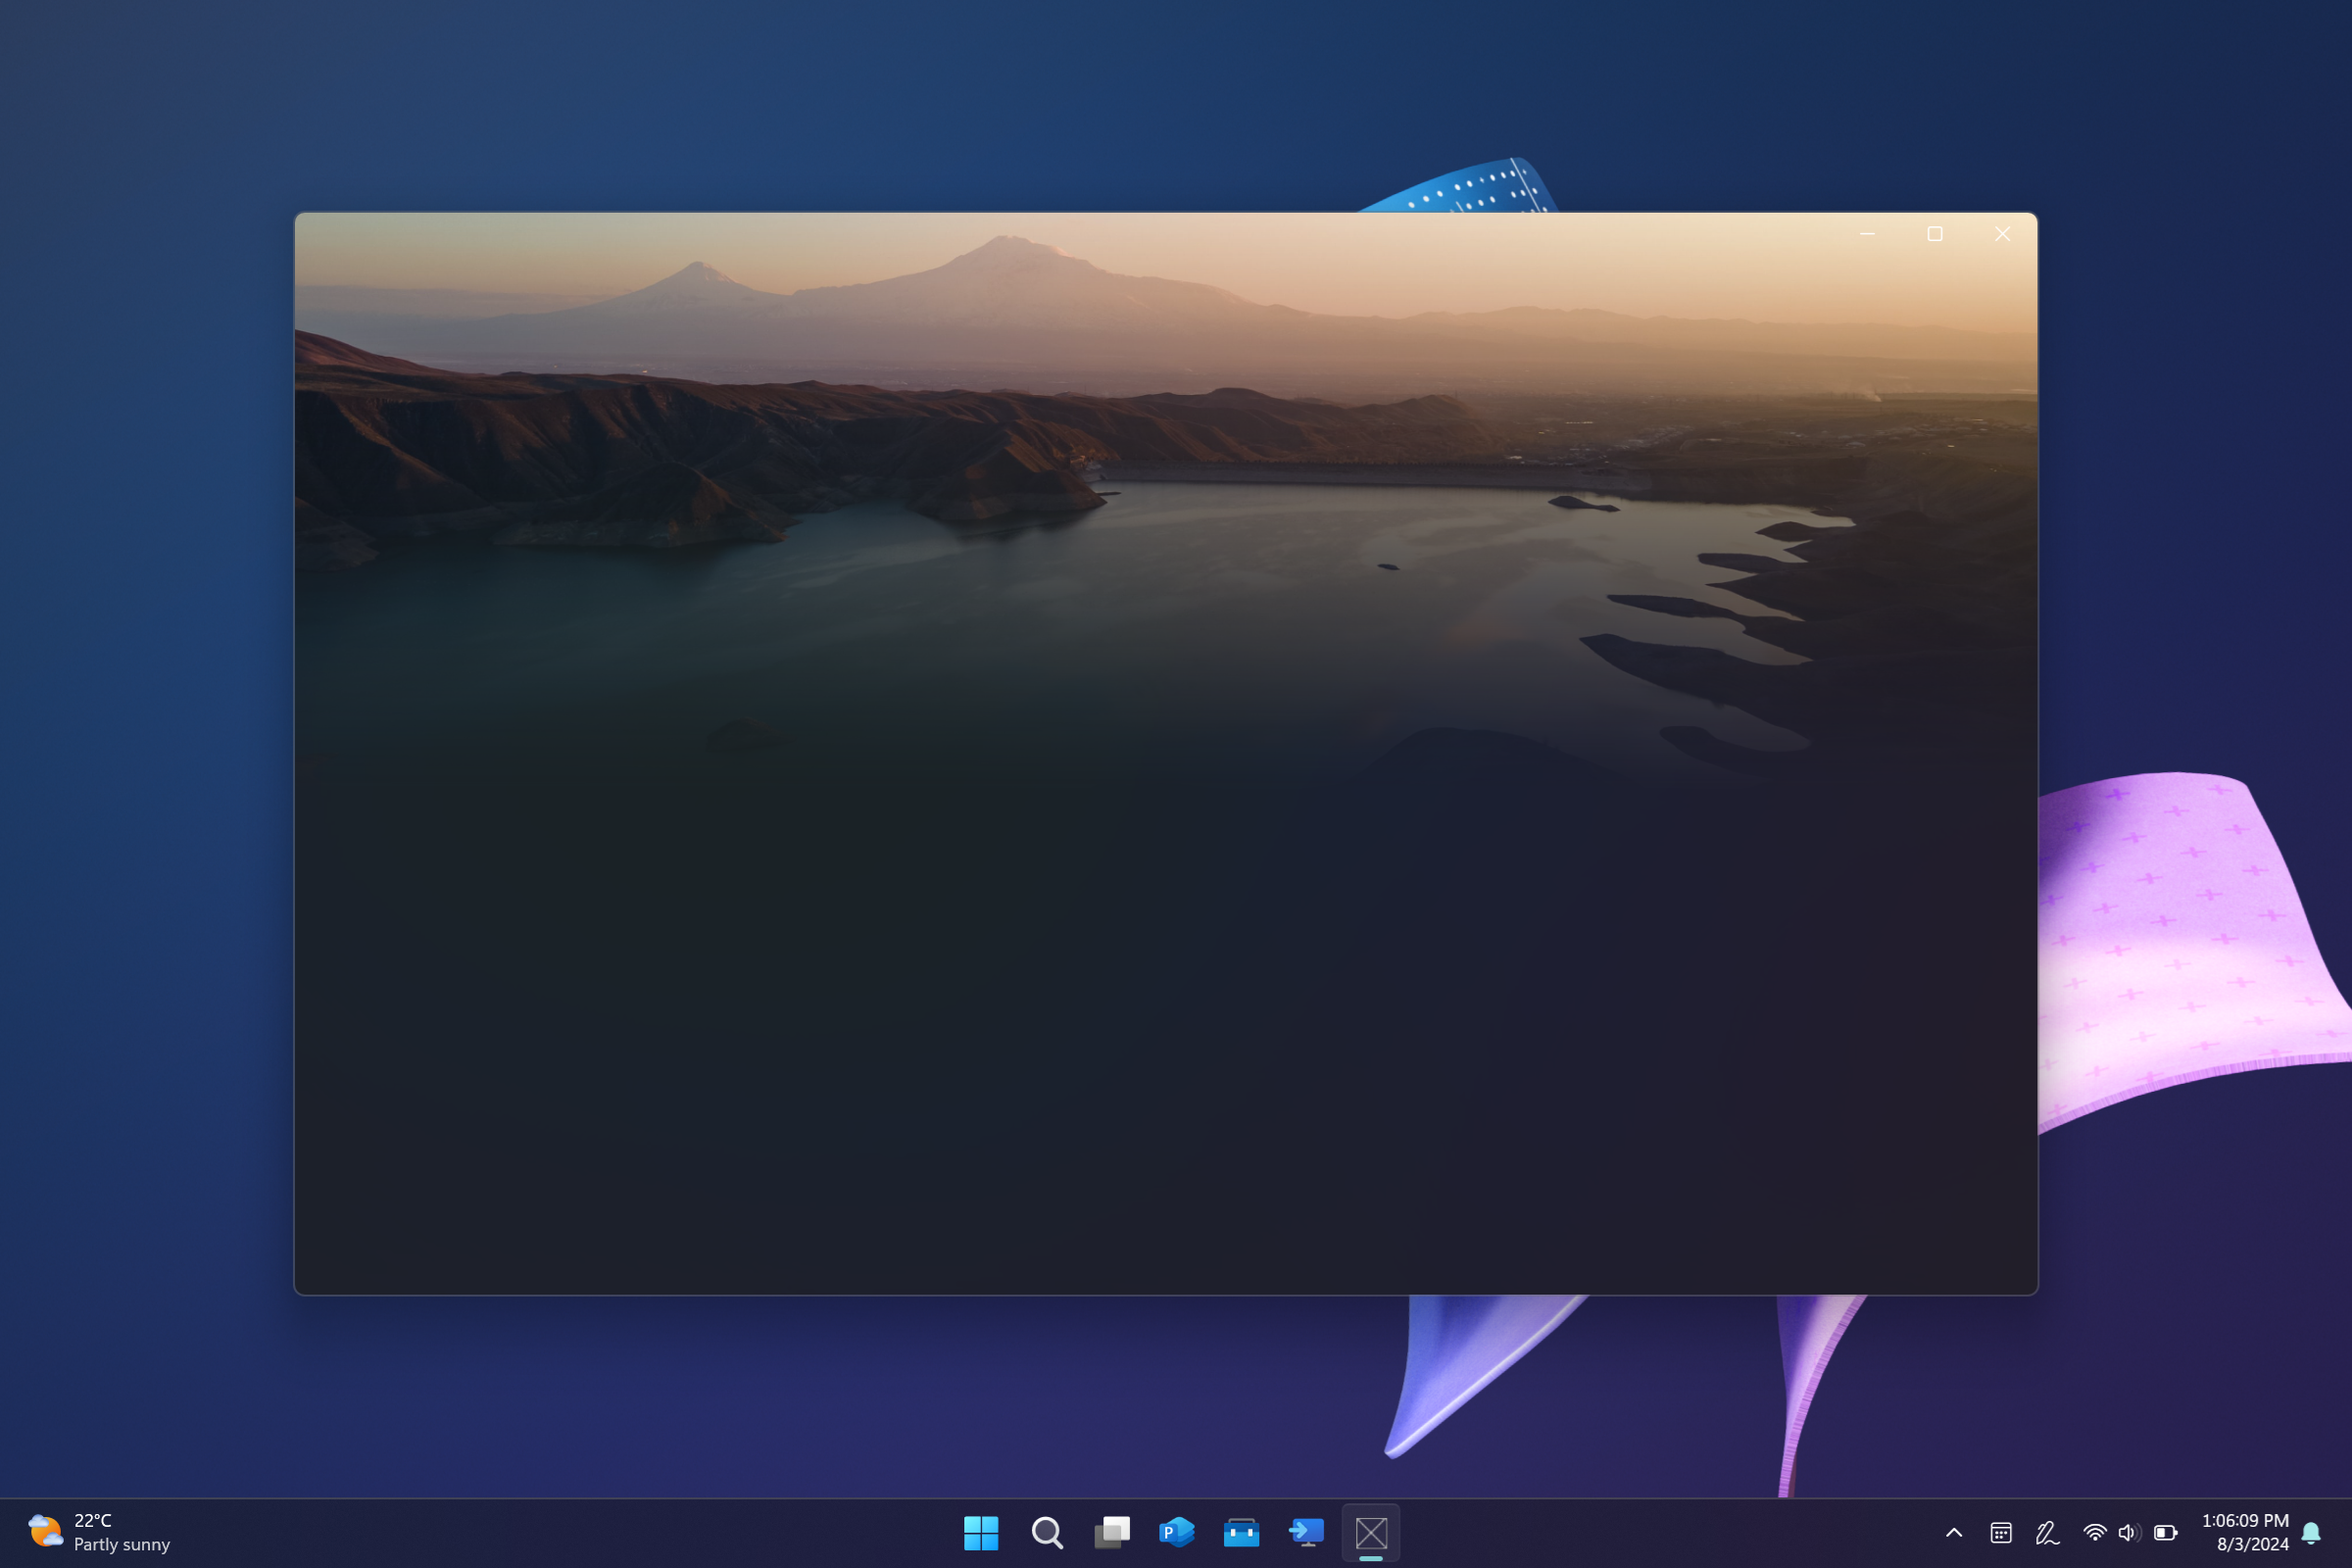
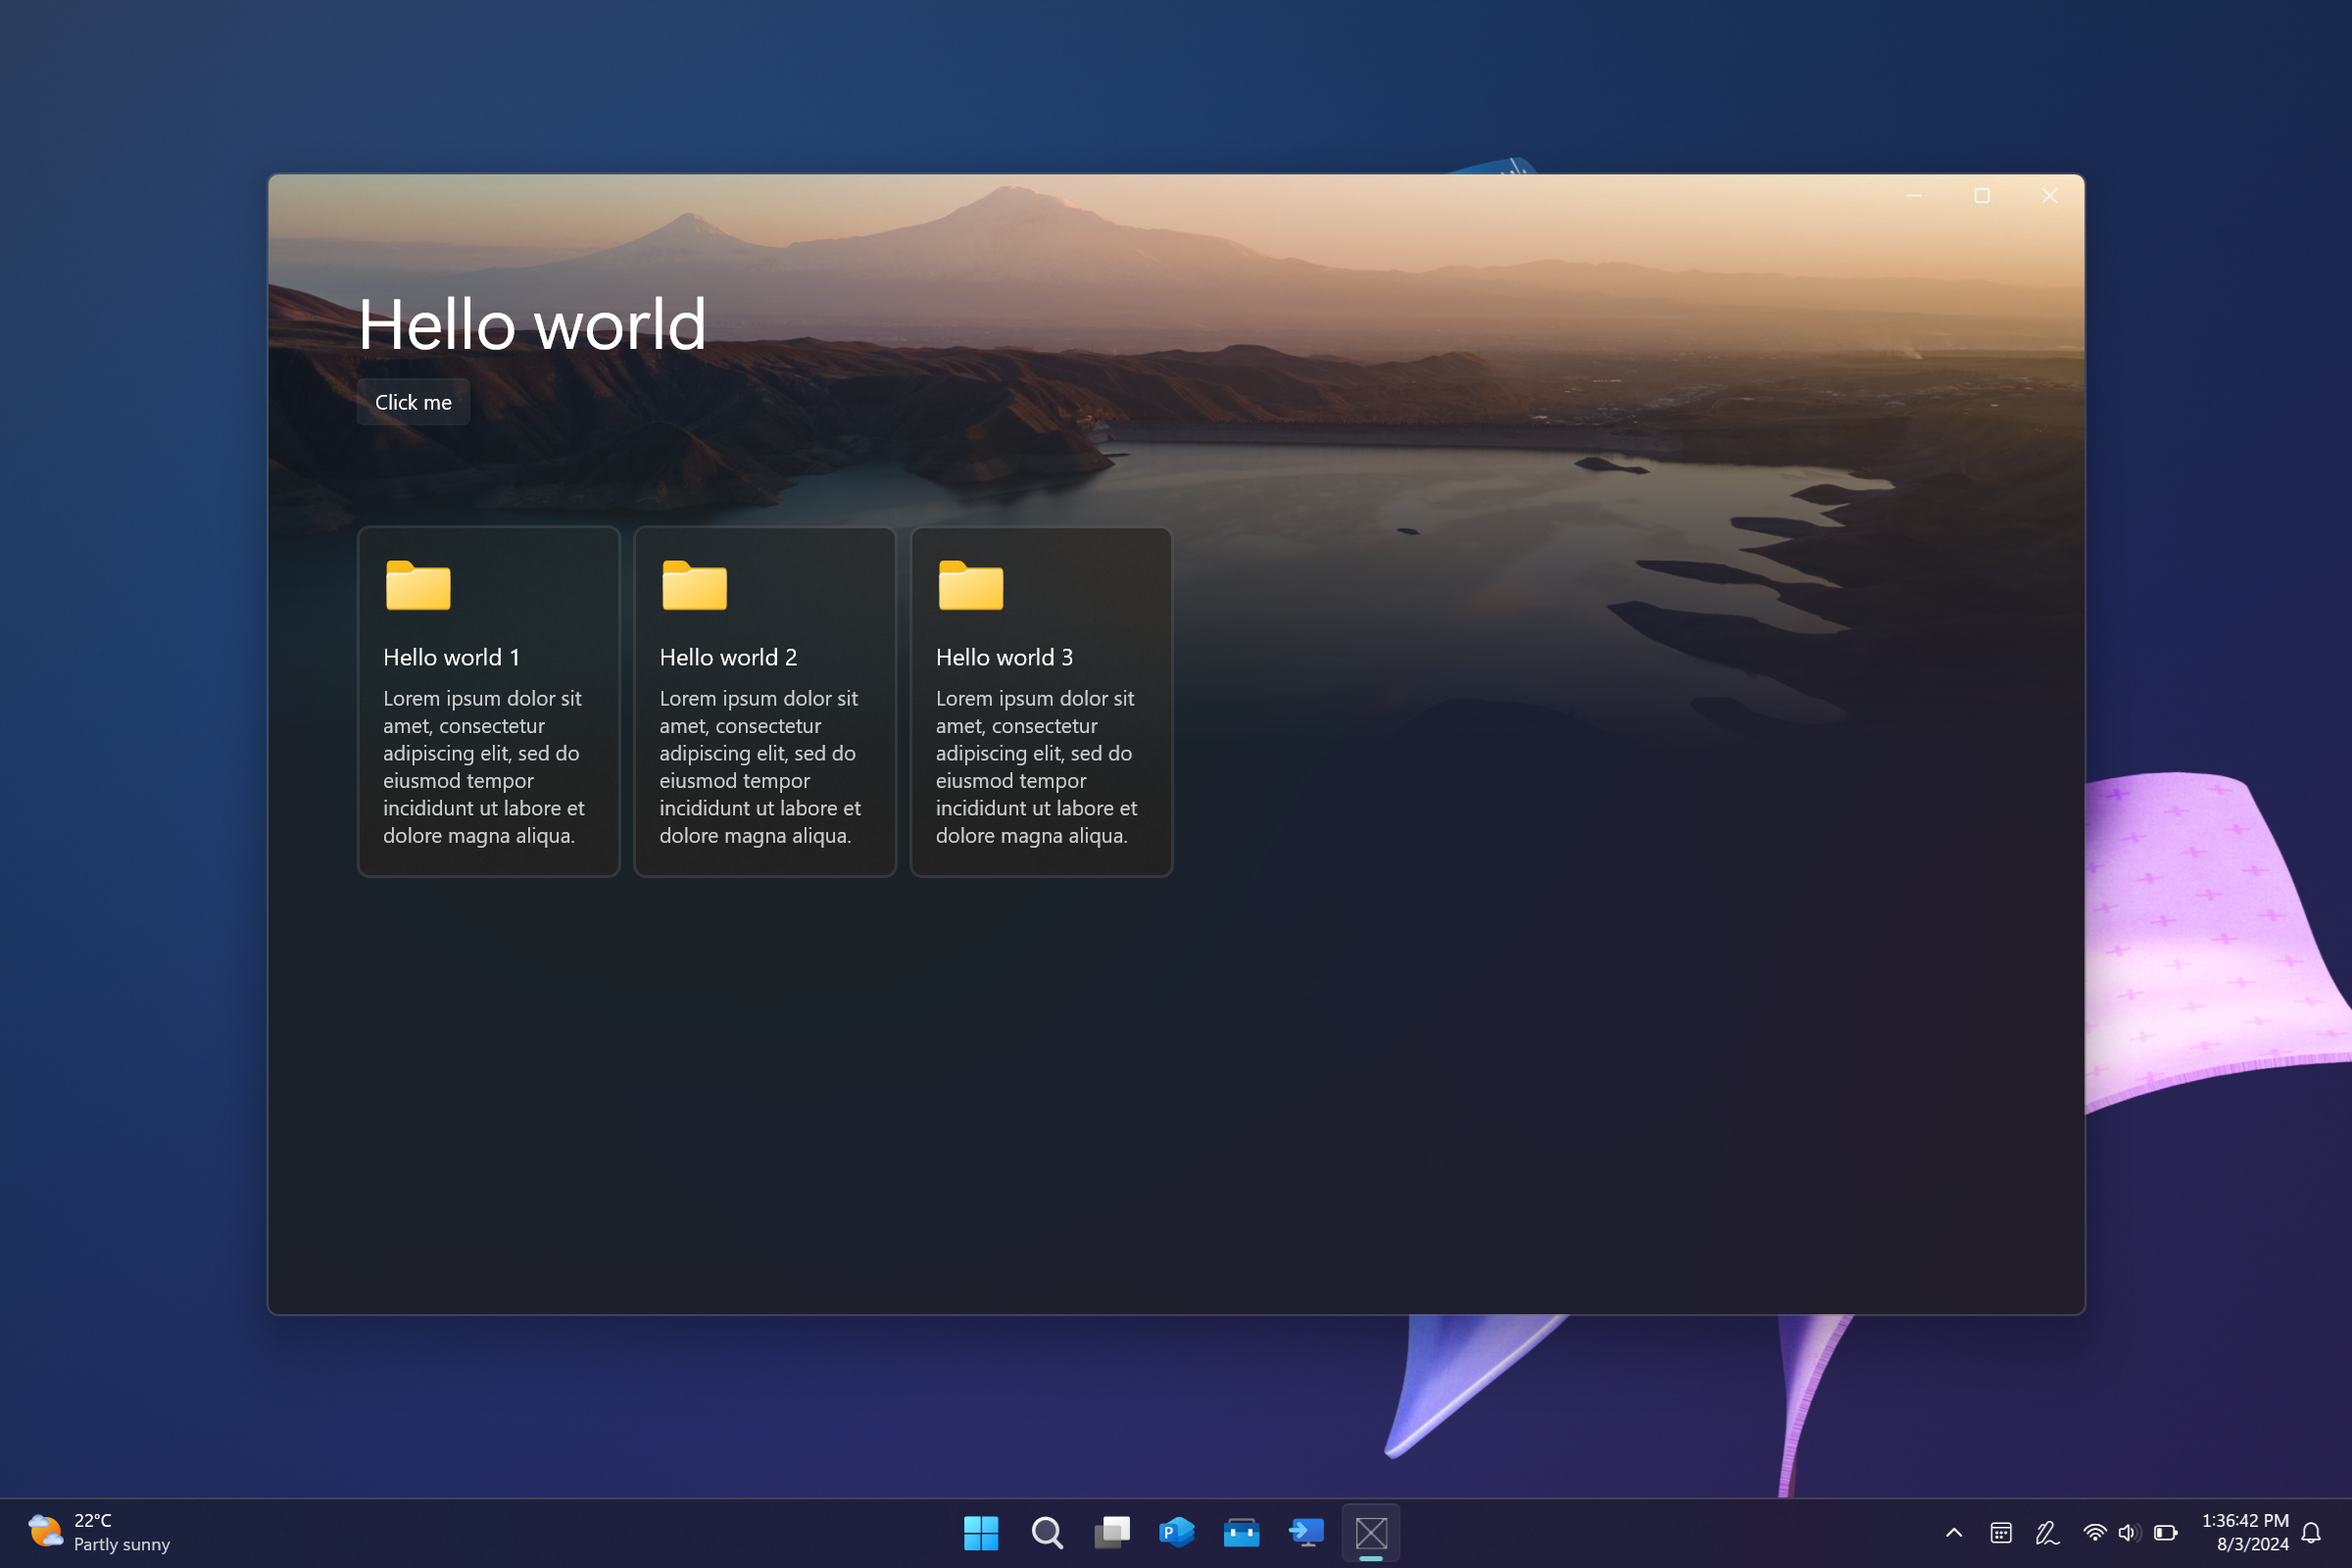
More controls

Changed region(s): [[0.0938, 0.0938, 0.9062, 0.8438]]

diff --git a/src/ImageWithMask/MainWindow.xaml b/src/ImageWithMask/MainWindow.xaml
@@ -13,11 +13,111 @@
   </Window.SystemBackdrop>
 
   <Grid>
-    <StackPanel
-      x:Name="MaskedImageStackPanel"
+    <Grid.Resources>
+      <StaticResource x:Key="TileAcrylicBrush" ResourceKey="SystemControlAcrylicElementBrush" />
+    </Grid.Resources>
+
+    <Grid
+      x:Name="MaskedImageGrid"
       Height="400"
       HorizontalAlignment="Stretch"
       VerticalAlignment="Top"
       SizeChanged="RefreshBackground" />
+
+    <Grid HorizontalAlignment="Stretch" VerticalAlignment="Top">
+      <Grid.RowDefinitions>
+        <RowDefinition Height="240" />
+        <RowDefinition Height="Auto" />
+      </Grid.RowDefinitions>
+
+      <StackPanel
+        Margin="60,0,0,0"
+        HorizontalAlignment="Left"
+        VerticalAlignment="Center">
+        <TextBlock
+          Margin="0,0,0,8"
+          FontFamily="Segoe UI Variable Display, Segoe UI"
+          FontSize="48"
+          Text="Hello world" />
+        <Button Content="Click me" />
+      </StackPanel>
+
+      <StackPanel
+        Grid.Row="1"
+        Margin="60,0"
+        Orientation="Horizontal">
+        <Grid
+          Width="180"
+          Height="240"
+          Margin="0,0,8,0"
+          Background="{ThemeResource TileAcrylicBrush}"
+          BorderBrush="#66575757"
+          BorderThickness="2"
+          CornerRadius="8">
+          <StackPanel Padding="16">
+            <Image
+              Width="48"
+              Margin="0,0,0,12"
+              HorizontalAlignment="Left"
+              Source="ms-appx:///Images/Folder.svg" />
+            <TextBlock
+              Margin="0,0,0,8"
+              FontSize="16"
+              Text="Hello world 1" />
+            <TextBlock
+              Foreground="{ThemeResource TextFillColorSecondaryBrush}"
+              Text="Lorem ipsum dolor sit amet, consectetur adipiscing elit, sed do eiusmod tempor incididunt ut labore et dolore magna aliqua."
+              TextWrapping="WrapWholeWords" />
+          </StackPanel>
+        </Grid>
+        <Grid
+          Width="180"
+          Height="240"
+          Margin="0,0,8,0"
+          Background="{ThemeResource TileAcrylicBrush}"
+          BorderBrush="#66575757"
+          BorderThickness="2"
+          CornerRadius="8">
+          <StackPanel Padding="16">
+            <Image
+              Width="48"
+              Margin="0,0,0,12"
+              HorizontalAlignment="Left"
+              Source="ms-appx:///Images/Folder.svg" />
+            <TextBlock
+              Margin="0,0,0,8"
+              FontSize="16"
+              Text="Hello world 2" />
+            <TextBlock
+              Foreground="{ThemeResource TextFillColorSecondaryBrush}"
+              Text="Lorem ipsum dolor sit amet, consectetur adipiscing elit, sed do eiusmod tempor incididunt ut labore et dolore magna aliqua."
+              TextWrapping="WrapWholeWords" />
+          </StackPanel>
+        </Grid>
+        <Grid
+          Width="180"
+          Height="240"
+          Background="{ThemeResource TileAcrylicBrush}"
+          BorderBrush="#66575757"
+          BorderThickness="2"
+          CornerRadius="8">
+          <StackPanel Padding="16">
+            <Image
+              Width="48"
+              Margin="0,0,0,12"
+              HorizontalAlignment="Left"
+              Source="ms-appx:///Images/Folder.svg" />
+            <TextBlock
+              Margin="0,0,0,8"
+              FontSize="16"
+              Text="Hello world 3" />
+            <TextBlock
+              Foreground="{ThemeResource TextFillColorSecondaryBrush}"
+              Text="Lorem ipsum dolor sit amet, consectetur adipiscing elit, sed do eiusmod tempor incididunt ut labore et dolore magna aliqua."
+              TextWrapping="WrapWholeWords" />
+          </StackPanel>
+        </Grid>
+      </StackPanel>
+    </Grid>
   </Grid>
 </Window>

diff --git a/src/ImageWithMask/App.xaml b/src/ImageWithMask/App.xaml
@@ -1,16 +1,14 @@
-<?xml version="1.0" encoding="utf-8"?>
+<?xml version="1.0" encoding="utf-8" ?>
 <Application
-    x:Class="ImageWithMask.App"
-    xmlns="http://schemas.microsoft.com/winfx/2006/xaml/presentation"
-    xmlns:x="http://schemas.microsoft.com/winfx/2006/xaml"
-    xmlns:local="using:ImageWithMask">
-    <Application.Resources>
-        <ResourceDictionary>
-            <ResourceDictionary.MergedDictionaries>
-                <XamlControlsResources xmlns="using:Microsoft.UI.Xaml.Controls" />
-                <!-- Other merged dictionaries here -->
-            </ResourceDictionary.MergedDictionaries>
-            <!-- Other app resources here -->
-        </ResourceDictionary>
-    </Application.Resources>
+  x:Class="ImageWithMask.App"
+  xmlns="http://schemas.microsoft.com/winfx/2006/xaml/presentation"
+  xmlns:x="http://schemas.microsoft.com/winfx/2006/xaml"
+  xmlns:local="using:ImageWithMask">
+  <Application.Resources>
+    <ResourceDictionary>
+      <ResourceDictionary.MergedDictionaries>
+        <XamlControlsResources xmlns="using:Microsoft.UI.Xaml.Controls" />
+      </ResourceDictionary.MergedDictionaries>
+    </ResourceDictionary>
+  </Application.Resources>
 </Application>

diff --git a/src/ImageWithMask/App.xaml.cs b/src/ImageWithMask/App.xaml.cs
@@ -1,47 +1,15 @@
-using System;
-using System.Collections.Generic;
-using System.IO;
-using System.Linq;
-using System.Runtime.InteropServices.WindowsRuntime;
-
-using Microsoft.UI.Xaml;
-using Microsoft.UI.Xaml.Controls;
-using Microsoft.UI.Xaml.Controls.Primitives;
-using Microsoft.UI.Xaml.Data;
-using Microsoft.UI.Xaml.Input;
-using Microsoft.UI.Xaml.Media;
-using Microsoft.UI.Xaml.Navigation;
-using Microsoft.UI.Xaml.Shapes;
-
-using Windows.ApplicationModel;
-using Windows.ApplicationModel.Activation;
-using Windows.Foundation;
-using Windows.Foundation.Collections;
-
-// To learn more about WinUI, the WinUI project structure,
-// and more about our project templates, see: http://aka.ms/winui-project-info.
+using Microsoft.UI.Xaml;
 
 namespace ImageWithMask
 {
-  /// <summary>
-  /// Provides application-specific behavior to supplement the default Application class.
-  /// </summary>
   public partial class App : Application
   {
-    /// <summary>
-    /// Initializes the singleton application object.  This is the first line of authored code
-    /// executed, and as such is the logical equivalent of main() or WinMain().
-    /// </summary>
     public App()
     {
-      this.InitializeComponent();
+      InitializeComponent();
     }
 
-    /// <summary>
-    /// Invoked when the application is launched.
-    /// </summary>
-    /// <param name="args">Details about the launch request and process.</param>
-    protected override void OnLaunched(Microsoft.UI.Xaml.LaunchActivatedEventArgs args)
+    protected override void OnLaunched(LaunchActivatedEventArgs args)
     {
       m_window = new MainWindow();
       m_window.Activate();

diff --git a/src/ImageWithMask/MainWindow.xaml.cs b/src/ImageWithMask/MainWindow.xaml.cs
@@ -22,8 +22,8 @@ namespace ImageWithMask
       AppWindow.TitleBar.ButtonBackgroundColor = Colors.Transparent;
       AppWindow.TitleBar.ButtonInactiveBackgroundColor = Colors.Transparent;
 
-      MaskedImageStackPanel.Loaded += (_, _) => LoadBackground();
-      MaskedImageStackPanel.Unloaded += (_, _) => UnloadBackground();
+      MaskedImageGrid.Loaded += (_, _) => LoadBackground();
+      MaskedImageGrid.Unloaded += (_, _) => UnloadBackground();
     }
 
     private void LoadBackground()
@@ -55,13 +55,13 @@ namespace ImageWithMask
       maskedBrush.Source = imageBrush;
       maskedBrush.Mask = maskBrush;
 
-      var size = MaskedImageStackPanel.ActualSize;
+      var size = MaskedImageGrid.ActualSize;
 
       var outputSpriteVisual = _compositor.CreateSpriteVisual();
       outputSpriteVisual.Size = size;
       outputSpriteVisual.Brush = maskedBrush;
 
-      ElementCompositionPreview.SetElementChildVisual(MaskedImageStackPanel, outputSpriteVisual);
+      ElementCompositionPreview.SetElementChildVisual(MaskedImageGrid, outputSpriteVisual);
     }
 
     private void UnloadBackground()
